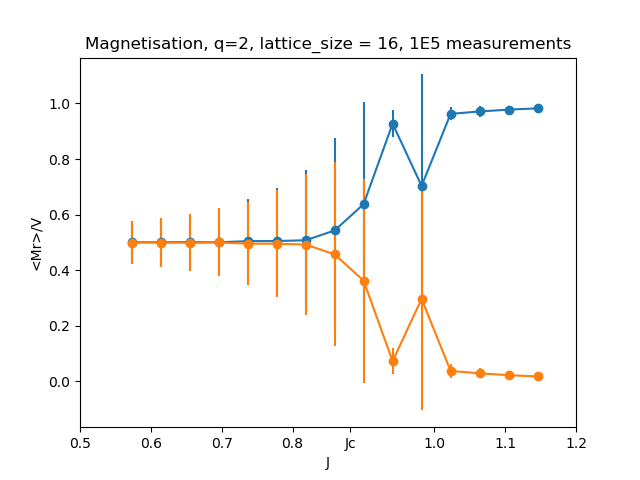
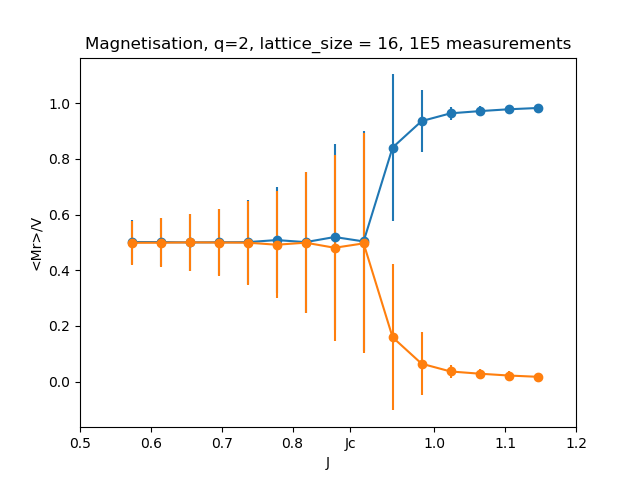
some new data

diff --git a/plot_all.py b/plot_all.py
@@ -4,7 +4,7 @@ import matplotlib.pyplot as plt
 
 
 ss = [8, 16, 32]
-q = 8
+q = 20
 jc = m.log(1+m.sqrt(q))
 #print('j_crit=' + str(jc))
 js = np.linspace(0.65*jc, 1.3*jc, num=15)
@@ -18,29 +18,18 @@ ax.set_xlabel('J')
 ax.set_ylabel('<E>/V')
 for i in range(len(ss)):
     data_energy = np.genfromtxt(names_energy[i], delimiter=',')
-    data_magnetisation = np.genfromtxt(names_magnetisation[i], delimiter=',')
-    #if i == 2:
-    #   data_energy += 4
-
     plt.plot(js, data_energy[0])
 
-plt.show()
+#plt.show()
 
-'''
+
 fig, ax = plt.subplots()
-for i in range(q):
-    ax.errorbar(js, data_magnetisation[i],
-                yerr=data_magnetisation[q+i],
-                fmt='-o')
-
 ax.set_xlabel('J')
 ax.set_ylabel('<Mr>/V')
-ax.set_title('Magnetisation, q='+str(q)+', lattice_size = '+str(s)+', 1E5 measurements')
-locs, _ = plt.xticks()
-locs = np.delete(locs, 5)
-labels = np.append([str(round(i, 2)) for i in locs], 'Jc')
-locs = np.append(locs, jc)
-plt.xticks(locs, labels)
+for i in range(len(ss)):
+    data_magnetisation = np.genfromtxt(names_magnetisation[i], delimiter=',')
+    for j in range(1):
+        plt.plot(js, data_magnetisation[j])
 
+#ax.set_title('Magnetisation, q='+str(q)+', lattice_size = '+str(s)+', 1E5 measurements')
 plt.show()
-'''

diff --git a/plot.py b/plot.py
@@ -3,7 +3,7 @@ import math as m
 import matplotlib.pyplot as plt
 
 q = 2
-s = 8
+s = 16
 nmeas = 10000
 jc = m.log(1+m.sqrt(q))
 print('j_crit=' + str(jc))
@@ -24,7 +24,7 @@ ax.set_xlabel('J')
 ax.set_ylabel('<E>/V')
 ax.set_title('Energy, q='+str(q)+', lattice_size = '+str(s)+', 1E5 measurements')
 locs, _ = plt.xticks()
-#locs = np.delete(locs, 5)
+locs = np.delete(locs, 4)
 labels = np.append([str(round(i, 2)) for i in locs], 'Jc')
 locs = np.append(locs, jc)
 plt.xticks(locs, labels)
@@ -39,7 +39,7 @@ ax.set_xlabel('J')
 ax.set_ylabel('<Mr>/V')
 ax.set_title('Magnetisation, q='+str(q)+', lattice_size = '+str(s)+', 1E5 measurements')
 locs, _ = plt.xticks()
-#locs = np.delete(locs, 5)
+locs = np.delete(locs, 4)
 labels = np.append([str(round(i, 2)) for i in locs], 'Jc')
 locs = np.append(locs, jc)
 plt.xticks(locs, labels)

diff --git a/program.py b/program.py
@@ -7,7 +7,7 @@ import math as mt
 def main():
     ## Global parameters
     q = 2
-    s = 8
+    s = 16
     nmeas = 10000
     jc = mt.log(1+mt.sqrt(q))
     js = np.linspace(0.65*jc, 1.3*jc, num=15)
